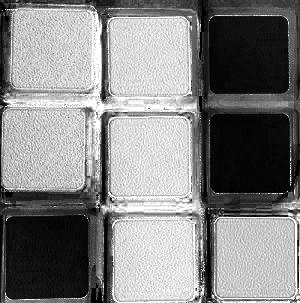
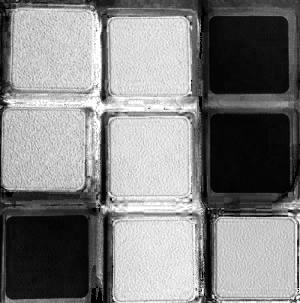
update

diff --git a/pages/algorithm/src/rubik_cube_recogition/read_face.m b/pages/algorithm/src/rubik_cube_recogition/read_face.m
@@ -1,27 +1,30 @@
-function [img,hue,saturation,value]=read_face(filename)
-img=imread(filename);
-hsv_map = rgb2hsv (img);
-hue=hsv_map(:,:,1);
-saturation=hsv_map(:,:,2);
-value=hsv_map(:,:,3);
+function [img, hue, saturation, value] = read_face(filename)
+    pkg load image
+    img = imread(filename);
+    img = imsmooth(img, "Gaussian");
+    hsv_map = rgb2hsv(img);
+    hue = hsv_map(:, :, 1);
+    saturation = hsv_map(:, :, 2);
+    value = hsv_map(:, :, 3);
 end
 
 %{
- img=F;
-scal=0.1;
-T = [1,0,0;0,1,0;0,0,1];
-tT = T.*scal;
-tT(3,3) = 1;
+img = F;
+scal = 0.1;
+T = [1, 0, 0; 0, 1, 0; 0, 0, 1];
+tT = T .* scal;
+tT(3, 3) = 1;
 flag = sign(scal);
-[x,y,z] = size(img);
-tx = floor(x*scal);
-%ceil为向上取整函数
-ty = floor(y*scal);
-Image = zeros(tx,ty);
-for i=1:tx
-  for j=1:ty
-    temp = floor((tT^-1)*[i;j;1]);
-    Image(i,j) = img(temp(1),temp(2));
-end;
-end; 
-%}
+[x, y, z] = size(img);
+tx = floor(x * scal);
+ty = floor(y * scal);
+Image = zeros(tx, ty);
+
+for i = 1:tx
+
+    for j = 1:ty
+        temp = floor((tT^-1) * [i; j; 1]);
+        Image(i, j) = img(temp(1), temp(2));
+        end;
+        end;
+        %}

diff --git a/pages/algorithm/src/rubik_cube_recogition/rubik_cube_recognition.m b/pages/algorithm/src/rubik_cube_recogition/rubik_cube_recognition.m
@@ -7,6 +7,7 @@ save_path = 'pic/';
 
 saturation_weight = 0.95;
 sv_thresh = 0.75;
+black_value_thresh = 0.2;
 
 for i = 1:6
     filename = filenames{i};
@@ -15,12 +16,16 @@ for i = 1:6
     imwrite(saturation, [save_path filename '_saturation.jpg']);
     imwrite(value, [save_path filename '_value.jpg']);
     figure(1)
-    subplot(5, 6, i); imshow(img);
-    subplot(5, 6, 6 + i); imshow(hue);
-    subplot(5, 6, 12 + i); imshow(saturation);
-    subplot(5, 6, 18 + i); imshow(value);
+    subplot(4, 6, i); imshow(img);
+    %set(gca,'OuterPosition', [0,0,0,0]);
+    subplot(4, 6, 6 + i); imshow(hue);
+    subplot(4, 6, 12 + i); imshow(saturation);
+    subplot(4, 6, 18 + i); imshow(value);
+
+    figure(2)
+    subplot(2, 6, i); imshow(value > black_value_thresh);
     sv = (1 - saturation_weight) * value + saturation_weight * (1 - saturation);
-    subplot(5, 6, 24 + i); imshow(sv > sv_thresh);
+    subplot(2, 6, 6 + i); imshow(sv > sv_thresh);
     disp(i)
     %{
     figure

diff --git a/pages/algorithm/md/rubik_cube_state_recognition.md b/pages/algorithm/md/rubik_cube_state_recognition.md
@@ -66,7 +66,7 @@ Saturation
 
 Value
 
-$0.05*Value+0.95*(1-Saturation) > 0.7$
+
 
 ![HSV空间](../pic/rubik_cube_facelet/UFDRBL.gif)
 
@@ -77,4 +77,15 @@ $0.05*Value+0.95*(1-Saturation) > 0.7$
 饱和度用于识别处白色的区块，这是因为HSV空间中黑色和白色的色调比较特殊。
 
 剔除了黑色和白色区域后，统计剩下区域的色调分布，其分布应该是聚集在hue尺度上五个不同的区域，需要注意到hue会翻转。
+
+
+saturation_weight = 0.95;
+sv_thresh = 0.75;
+black_value_thresh=0.2;
+
+$Value < black\_value\_thresh$
+
+$(1-saturation\_weight)*Value+ saturation\_weight *(1-Saturation) > sv\_thresh$
+
+![黑白](../pic/rubik_cube_facelet/UFDRBL_black_white.gif)
 
